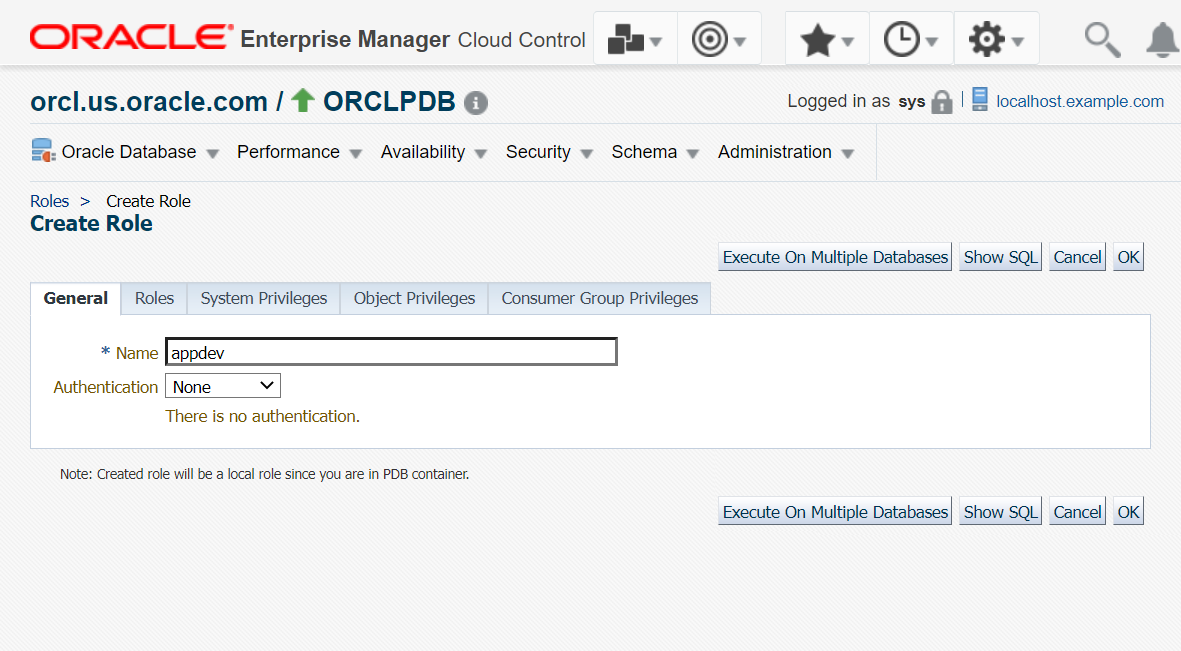
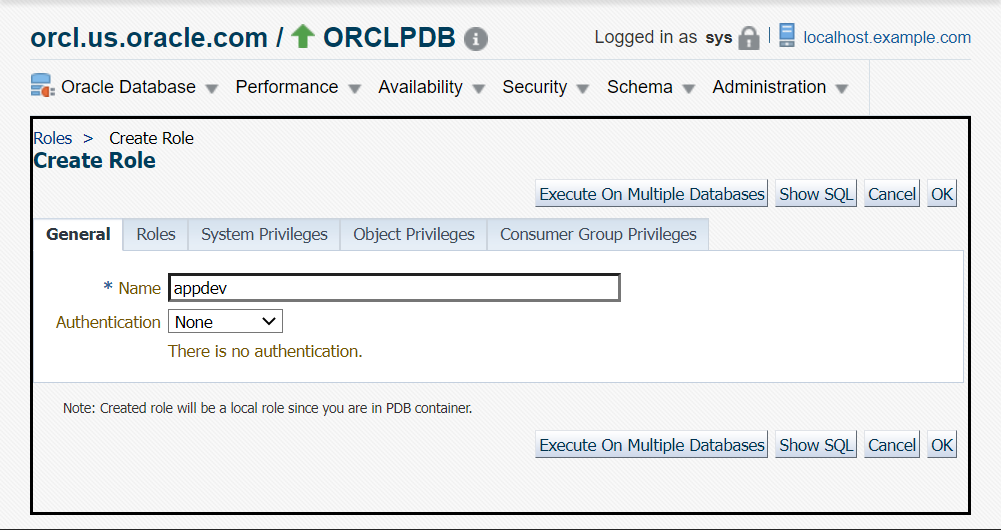
ws6 final draft for review
updated the draft contents of ws6 Manage user accounts and security and sent for SME review.
changed with images with new screen captures
~MG

diff --git a/projects/dba-essentials-test/db23c-livelabs-workshops/23c-administer-users-security/manage-db-roles/manage-db-roles.md b/projects/dba-essentials-test/db23c-livelabs-workshops/23c-administer-users-security/manage-db-roles/manage-db-roles.md
@@ -47,7 +47,7 @@ In this task, you will view the details of the role *CONNECT* in the PDB. 
 
     Oracle Enterprise Manager redirects to the Database Login page.  
 
-1.  Select the *Named* Credential option, if not already selected, and click **Login** to connect to the Oracle Database. The values may differ depending on the system you are using.  
+1.  Select the *Named* Credential option, if not already selected, and click **Login** to connect to the database. The values may differ depending on the system you are using.  
 
     ![Database login](./images/pdb-roles-04-pdb-login.png " ")
 
@@ -190,7 +190,7 @@ In this task, you will modify the role *APPDEV* in the PDB that you created in t
 
      > **Note:** The roles table displays no records because Oracle Database does not grant any default roles automatically. The other buttons and options are not relevant for this lab.  
 
-1.  The Modify Roles page displays the **Available Roles** that you can grant to your role. The values may differ depending on the system you are using.  
+1.  The Modify Roles page displays **Available Roles** that you can grant to your role. The values may differ depending on the system you are using.  
 
      > **Note:** You can double-click an available role to add it to the selected roles list. Similarly, double-click a role to remove it from the selected roles list. To select multiple items, press the **ctrl** button on your keyboard and select the roles.  
 
@@ -248,4 +248,4 @@ You may now **proceed to the next lab**.
 
  -   **Author**: Manish Garodia, Database User Assistance Development team
  -   **Contributors**: <if type="hidden">Ashwini R, Jayaprakash Subramanian</if>
- -   **Last Updated By/Date**: Manish Garodia, April 2023
+ -   **Last Updated By/Date**: Manish Garodia, May 2023

diff --git a/projects/dba-essentials-test/db23c-livelabs-workshops/23c-administer-users-security/intro-user-admin-sec-privs/intro-user-admin-sec-privs.md b/projects/dba-essentials-test/db23c-livelabs-workshops/23c-administer-users-security/intro-user-admin-sec-privs/intro-user-admin-sec-privs.md
@@ -99,7 +99,7 @@ The roles that exist in the database by default are common roles. However, you c
 
      > **Note:** Different PDBs in the same multitenant CDB may have local roles with the exact same name, for example `pdbadmin`. Though they are local, the roles are completely independent of each other.
 
-In Oracle Database, you create roles, grant system and object privileges to roles, and then grant roles to users. You can also grant roles to other roles. Unlike schema objects, roles are not contained in any schema.
+In Oracle Database, you create roles, grant system privileges and object privileges to roles, and then grant roles to users. You can also grant roles to other roles. Unlike schema objects, roles are not contained in any schema.
 
 ### Privileges in Oracle Database
 
@@ -173,4 +173,4 @@ Click the next lab to **Get started**. 
 
  -   **Author** - Manish Garodia, Database User Assistance Development team
  -   **Contributors** - <if type="hidden">Team Database UAD</if>
- -   **Last Updated By/Date** - Manish Garodia, April 2023
+ -   **Last Updated By/Date** - Manish Garodia, May 2023

diff --git a/projects/dba-essentials-test/db23c-livelabs-workshops/23c-administer-users-security/manage-db-users-accounts/manage-db-users-accounts.md b/projects/dba-essentials-test/db23c-livelabs-workshops/23c-administer-users-security/manage-db-users-accounts/manage-db-users-accounts.md
@@ -33,7 +33,7 @@ In this task, you will view the details of the user account *DBUSER* in the PDB.
 
     ![Target menu](./../manage-db-roles/images/pdb-roles-01-db-menu.png " ")  
 
-	The Databases page displays all database systems added to Oracle Enterprise Manager as managed targets. The values may differ depending on the system you are using.
+	The Databases page displays all database systems added to Oracle Enterprise Manager as managed targets.
 
 1.  Click the expand/collapse triangle next to the database instance name, for example *orcl.us.oracle.com*, and then expand Pluggable Databases. The list displays all PDBs under the selected container.
 	The values may differ depending on the system you are using.
